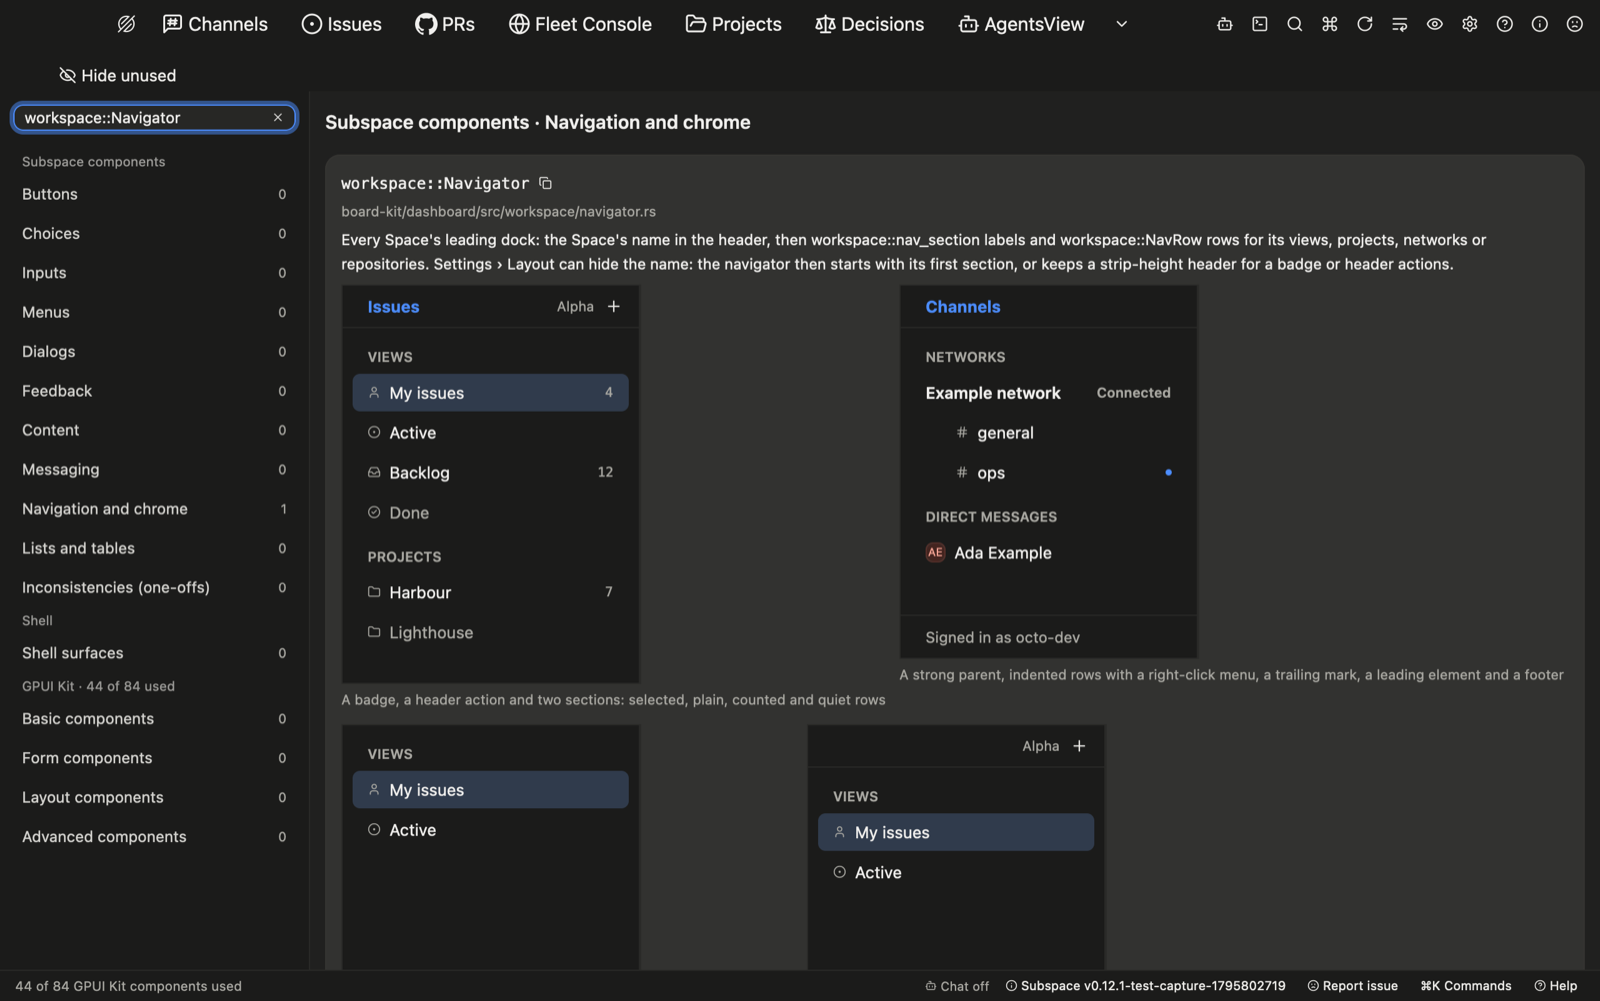
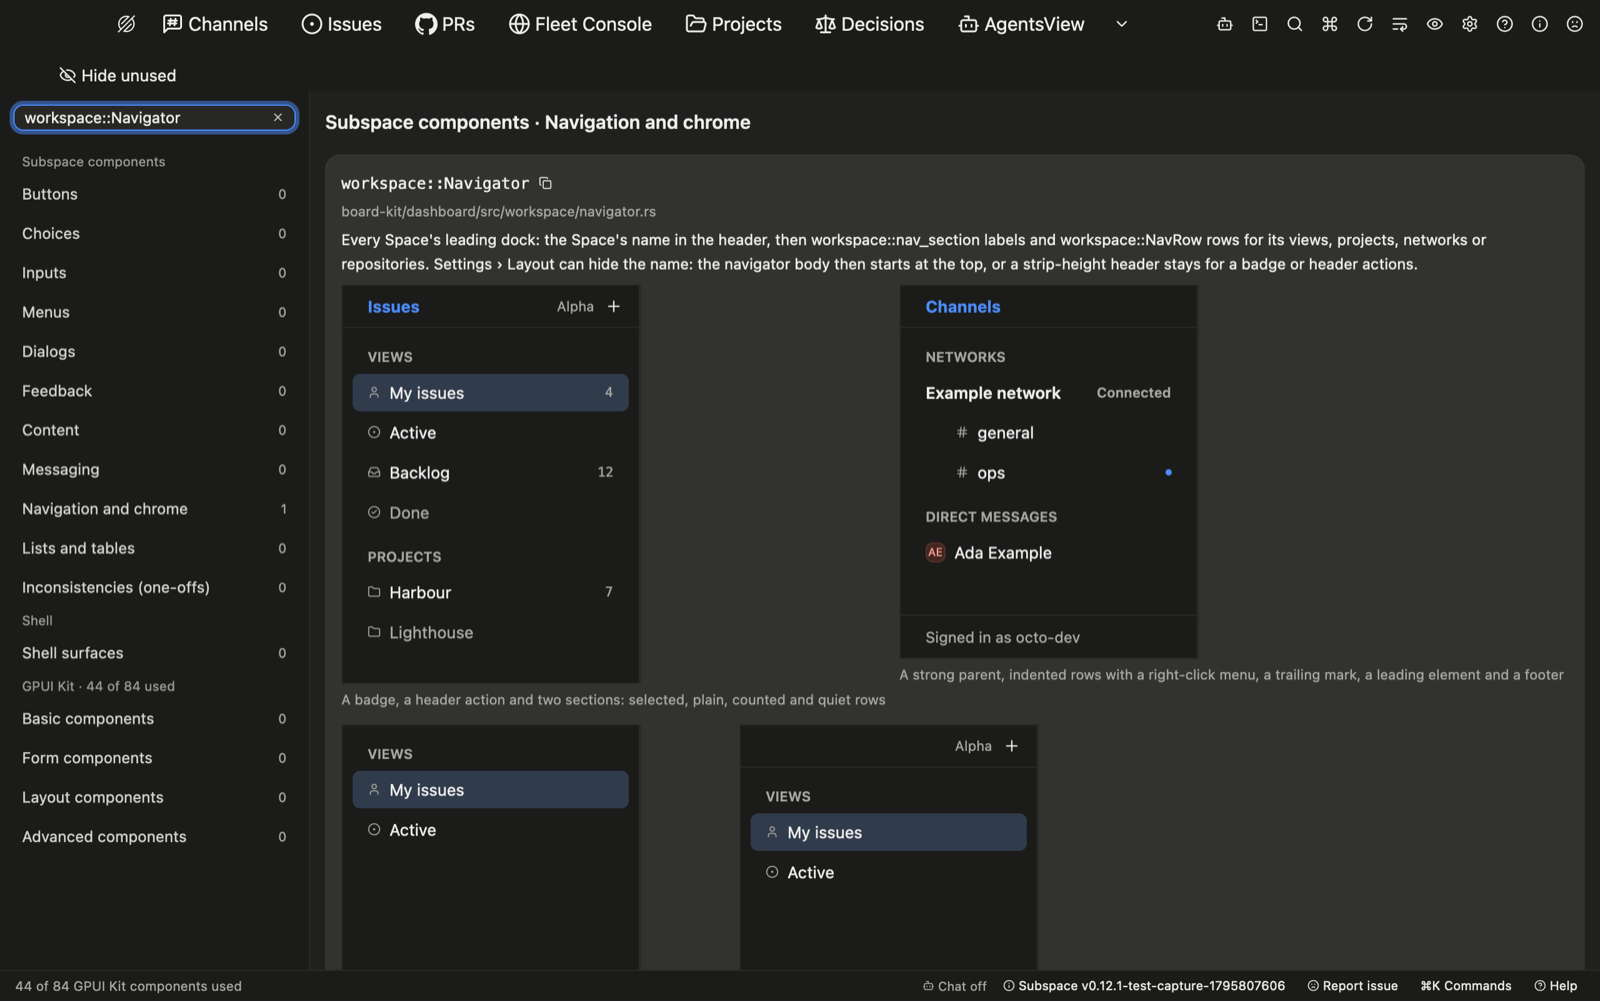
docs(framework): record the last navigator title review fixes
The change record lists the new tests, with a fresh Settings › Layout
capture for the shorter note and the gallery card for its new caption.

diff --git a/subspace-framework/docs/changes/navigator-title-setting/README.md b/subspace-framework/docs/changes/navigator-title-setting/README.md
@@ -48,12 +48,15 @@ for people to choose for themselves.
 - `navigator_title_tests`: the title shows by default; a hidden default
   removes the header and the body starts at the navigator's top; a saved
   `"1"` shows the title over a hidden app default.
-- `navigator_title_tests`: with a badge and an action, a hidden title keeps
-  `workspace-navigator-header` at the strip height, lined up with the
-  pane's strip; the action stays trailing; the tree keeps the Space's name.
-- `toolbar_tests`: a failed state file write keeps the live title and the
-  draft.
-- Component gallery: the Navigator card draws both hidden-title states.
+- `navigator_title_tests`: with a badge alone and with an action alone, a
+  hidden title keeps `workspace-navigator-header` at the strip height,
+  lined up with the pane's strip, and the tree keeps the Space's name; the
+  action stays trailing.
+- `toolbar_tests`: after a good Save, a Save whose state file write fails
+  keeps the live title and the draft, the write boundary alone restores the
+  title, and Save applies the draft once the file can be written again.
+- Component gallery: the Navigator card draws both hidden-title states,
+  and its first samples keep the title under a hidden app default.
 - `pre_startup`: `ProductBuild::new` shows the title.
 - `toolbar_tests`: the Layout switch is a draft until Save, then saves
   `layout.navigator-title` as `"0"` and reopens with the switch off.
